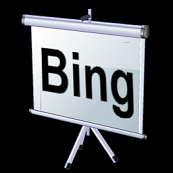
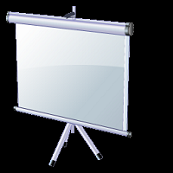
Changed BingSlideshow to WebSlideshow for YMITS; added Debug info to MusicBird

Changed region(s): [[0.0289, 0.0289, 0.8671, 0.9827]]

diff --git a/wp7apps/bingslideshow2/BingSlideshow2/MainPage.xaml b/wp7apps/bingslideshow2/BingSlideshow2/MainPage.xaml
@@ -22,7 +22,7 @@
             <!--Pivot item one-->
             <controls:PivotItem>
                 <Grid x:Name="ContentPanel" Margin="8,4,12,12">
-                    <TextBlock Height="30" HorizontalAlignment="Left" Margin="24,100,0,0" Name="TextBlock1" Text="Search Bing" VerticalAlignment="Top" Width="111" />
+                    <TextBlock Height="30" HorizontalAlignment="Left" Margin="24,100,0,0" Name="TextBlock1" Text="Search Images" VerticalAlignment="Top" Width="135" />
                     <TextBox Height="72" HorizontalAlignment="Left" Margin="6,122,0,0" Name="TextBox1" Text="" VerticalAlignment="Top" Width="500" />
                     <ProgressBar IsIndeterminate="False" x:Name="queryProgress" Margin="6,105,0,0" Visibility="Collapsed" />
                     <Button Content="Search" Height="72" HorizontalAlignment="Left" Margin="506,122,0,0" Name="Button1" VerticalAlignment="Top" Width="160" Click="Button1_Click" />

diff --git a/wp7apps/musicbird/AudioPlaybackAgent1/AudioPlayer.cs b/wp7apps/musicbird/AudioPlaybackAgent1/AudioPlayer.cs
@@ -40,27 +40,13 @@ namespace AudioPlaybackAgent1
         }
 
         public static void playAtPosition( int position, BackgroundAudioPlayer player ) {
-            updatePlaylist();
-            if(_playList.Count > position && position >= 0)
-            {
-                System.Diagnostics.Debug.WriteLine("AudioPlayer.cs:playAtPosition ___ position exists: "+position);
-                if(_playList[position] != null)
-                {
-                    System.Diagnostics.Debug.WriteLine("AudioPlayer.cs:playAtPosition ___ index is not null: " + position);
-                    System.Diagnostics.Debug.WriteLine("AudioPlayer.cs:playAtPosition ___ Starting playback...");
-                    player.Track = _playList[position];
-                    //The PlayStateChangedEventHandler will be called as soon as the track is loaded
-                    currentTrackNumber = position;
-                }
-                else
-                {
-                    System.Diagnostics.Debug.WriteLine("AudioPlayer.cs:playAtPosition ___ index is null: " + position);
-                    System.Diagnostics.Debug.WriteLine("AudioPlayer.cs:playAtPosition ___ trying next index: " + position + 1);
-                    playAtPosition(position+1, player);
-                }
+            if(playlistHasIndex(position)) { 
+                System.Diagnostics.Debug.WriteLine("AudioPlayer.cs:playAtPosition ___ Starting playback...");
+                player.Track =  getAudioTrackAt(position);
+                //The PlayStateChangedEventHandler will be called as soon as the track is loaded
+                currentTrackNumber = position;
             }
             else {
-                System.Diagnostics.Debug.WriteLine("AudioPlayer.cs:playAtPosition ___ position out of _playlist bounds: "+position);
                 System.Diagnostics.Debug.WriteLine("AudioPlayer.cs:playAtPosition ___ trying index 0");
                 playAtPosition(0, player);
             }
@@ -142,7 +128,7 @@ namespace AudioPlaybackAgent1
 
         protected override void OnUserAction(BackgroundAudioPlayer player, AudioTrack track, UserAction action, object param)
         {
-            updatePlaylist();
+            //updatePlaylist(currentTrackNumber+1);
             switch (action)
             {
                 case UserAction.Play:
@@ -215,17 +201,14 @@ namespace AudioPlaybackAgent1
 
         }
 
-        private static List<String[]> getFromPlaylist()
-        {
-            //mut.WaitOne();
+        private static AudioTrack getAudioTrackAt(int position){
             var settings = IsolatedStorageSettings.ApplicationSettings;
             if(settings.Contains("playlist"))
             {
                 List<String[]> items;
                 if(settings.TryGetValue<List<String[]>>("playlist", out items))
                 {
-                    //mut.ReleaseMutex();
-                    return items;
+                    return new AudioTrack(new Uri(items[position][2]), items[position][1], items[position][0], null, null);
                 }
                 else
                 {
@@ -235,22 +218,48 @@ namespace AudioPlaybackAgent1
             }
             else
             {
-                //mut.ReleaseMutex();
-                return (new List<String[]>());
+                return null;
             }
-
         }
 
-        private static void updatePlaylist() {
-            List<string[]> strings = getFromPlaylist();
-            List<AudioTrack> trackList = new List<AudioTrack>();
-            foreach(var item in strings)
+        private static bool playlistHasIndex( int position ) {
+            List<String[]> items2;
+            var settings = IsolatedStorageSettings.ApplicationSettings;
+            if(settings.TryGetValue<List<String[]>>("playlist", out items2))
             {
-                trackList.Add(new AudioTrack(new Uri(item[2]), item[1], item[0], null, null));
+                System.Diagnostics.Debug.WriteLine("--items--- " + items2.Count);
             }
-            _playList.Clear();
-            _playList = new List<AudioTrack>();
-            _playList = trackList;
+            if(position < 0)
+            {
+                System.Diagnostics.Debug.WriteLine("AudioPlayer.cs:playlistHasIndex ___ position<0: position is "+position);
+                return false;
+            }
+            if(settings.Contains("playlist"))
+            {
+                List<String[]> items;
+                if(settings.TryGetValue<List<String[]>>("playlist", out items))
+                {
+                    System.Diagnostics.Debug.WriteLine("### "+items.Count);
+                    if(items.Count > position)
+                    {
+                        System.Diagnostics.Debug.WriteLine("AudioPlayer.cs:playlistHasIndex ___ position exists: " + position);
+                        return true;
+                    }
+                    else {
+                        System.Diagnostics.Debug.WriteLine("AudioPlayer.cs:playlistHasIndex ___ itemScount>position: count is "+items.Count+", position is " + position);
+                        return false;
+                    }
+                }
+                else
+                {
+                    //mut.ReleaseMutex();
+                    throw new IsolatedStorageException("Could not get Playlist from ApplicationSettings");
+                }
+            }
+            else
+            {
+                throw new IsolatedStorageException("Could not get Playlist from ApplicationSettings");
+            }
         }
 
         private bool isTrial() {

diff --git a/wp7apps/musicbird/MusicBird/MainPage.xaml.cs b/wp7apps/musicbird/MusicBird/MainPage.xaml.cs
@@ -163,7 +163,13 @@ namespace MusicBird
 
             if(Page1.read("albumart"))
             {
-                getAlbumArt(BackgroundAudioPlayer.Instance.Track.Artist + " " + BackgroundAudioPlayer.Instance.Track.Title);
+                try
+                {
+                    getAlbumArt(BackgroundAudioPlayer.Instance.Track.Artist + " " + BackgroundAudioPlayer.Instance.Track.Title);
+                }
+                catch(Exception e) {
+                    System.Diagnostics.Debug.WriteLine(e.Message);
+                }
             }
         }
 
@@ -183,11 +189,26 @@ namespace MusicBird
 
             if (BackgroundAudioPlayer.Instance.Track != null)
             {
-                string[] arguments = new string[] { BackgroundAudioPlayer.Instance.Track.Title, BackgroundAudioPlayer.Instance.Track.Artist };
+                String artist="";
+                String title = "";
+                try
+                {
+                    title = BackgroundAudioPlayer.Instance.Track.Title;
+                }
+                catch(Exception ex) { }
+                try{
+                    artist = BackgroundAudioPlayer.Instance.Track.Artist;
+                }catch(Exception ex){}
+
+                string[] arguments = new string[] { title, artist };
                 txtTrack.Text = string.Format("Track: {1} - {0}", arguments);
 
                 // Set the current position on the ProgressBar.
-                positionIndicator.Value = BackgroundAudioPlayer.Instance.Position.TotalSeconds;
+                try
+                {
+                    positionIndicator.Value = BackgroundAudioPlayer.Instance.Position.TotalSeconds;
+                }
+                catch(Exception ex) { System.Diagnostics.Debug.WriteLine(ex.Message); }
 
                 // Update the current playback position.
                 TimeSpan position = new TimeSpan();
@@ -475,7 +496,7 @@ namespace MusicBird
             addToPlaylist(selectedTrack.artist, selectedTrack.title, selectedTrack.url);
             updatePlaylist();
             
-            AudioPlaybackAgent1.AudioPlayer.mut.WaitOne();
+            //AudioPlaybackAgent1.AudioPlayer.mut.WaitOne();
             var settings = IsolatedStorageSettings.ApplicationSettings;
             List<String[]> oldItems = getFromPlaylist();
             int itemsCount = oldItems.Count;
@@ -711,7 +732,7 @@ namespace MusicBird
                 AudioTrack current = new AudioTrack(new Uri(selectedTrack.url, UriKind.RelativeOrAbsolute), selectedTrack.artist, selectedTrack.title, "", null);
                 String[] current2 = new String[] { selectedTrack.artist, selectedTrack.title, selectedTrack.url };
 
-                AudioPlaybackAgent1.AudioPlayer.mut.WaitOne();
+                //AudioPlaybackAgent1.AudioPlayer.mut.WaitOne();
                 var settings = IsolatedStorageSettings.ApplicationSettings;
                 List<String[]> oldItems = getFromPlaylist();
                 
@@ -1071,15 +1092,23 @@ namespace MusicBird
 
             private void addToPlaylist( String artist, String title, String url )
             {
-                AudioPlaybackAgent1.AudioPlayer.mut.WaitOne();
                 var settings = IsolatedStorageSettings.ApplicationSettings;
+
+                List<String[]> items;
+                if(settings.TryGetValue<List<String[]>>("playlist", out items)) {
+                    System.Diagnostics.Debug.WriteLine("--before-- "+items.Count);
+                }
+
                 String[] newItem = new String[]{artist, title, url};
                 List<String[]> oldItems = getFromPlaylist();
                 oldItems.Add(newItem);
                 settings.Remove("playlist");
                 settings.Add("playlist", oldItems);
                 settings.Save();
-                AudioPlaybackAgent1.AudioPlayer.mut.ReleaseMutex();
+                if(settings.TryGetValue<List<String[]>>("playlist", out items))
+                {
+                    System.Diagnostics.Debug.WriteLine("--after--- " + items.Count);
+                }
             }
 
             private List<String[]> getFromPlaylist()
@@ -1106,6 +1135,12 @@ namespace MusicBird
 
             private void removeFromPlaylist( object item ) {
                 var settings = IsolatedStorageSettings.ApplicationSettings;
+
+                List<String[]> items2;
+                if(settings.TryGetValue<List<String[]>>("playlist", out items2))
+                {
+                    System.Diagnostics.Debug.WriteLine("--before-- " + items2.Count);
+                }
                 if(settings.Contains("playlist")) { 
                     List<String[]> items;
                     if(settings.TryGetValue<List<String[]>>("playlist", out items))
@@ -1123,6 +1158,11 @@ namespace MusicBird
                         settings.Add("playlist", items);
                         settings.Save();
                     }
+                }
+                List<String[]> items3;
+                if(settings.TryGetValue<List<String[]>>("playlist", out items3))
+                {
+                    System.Diagnostics.Debug.WriteLine("--after--- " + items3.Count);
                 }
             }
 
